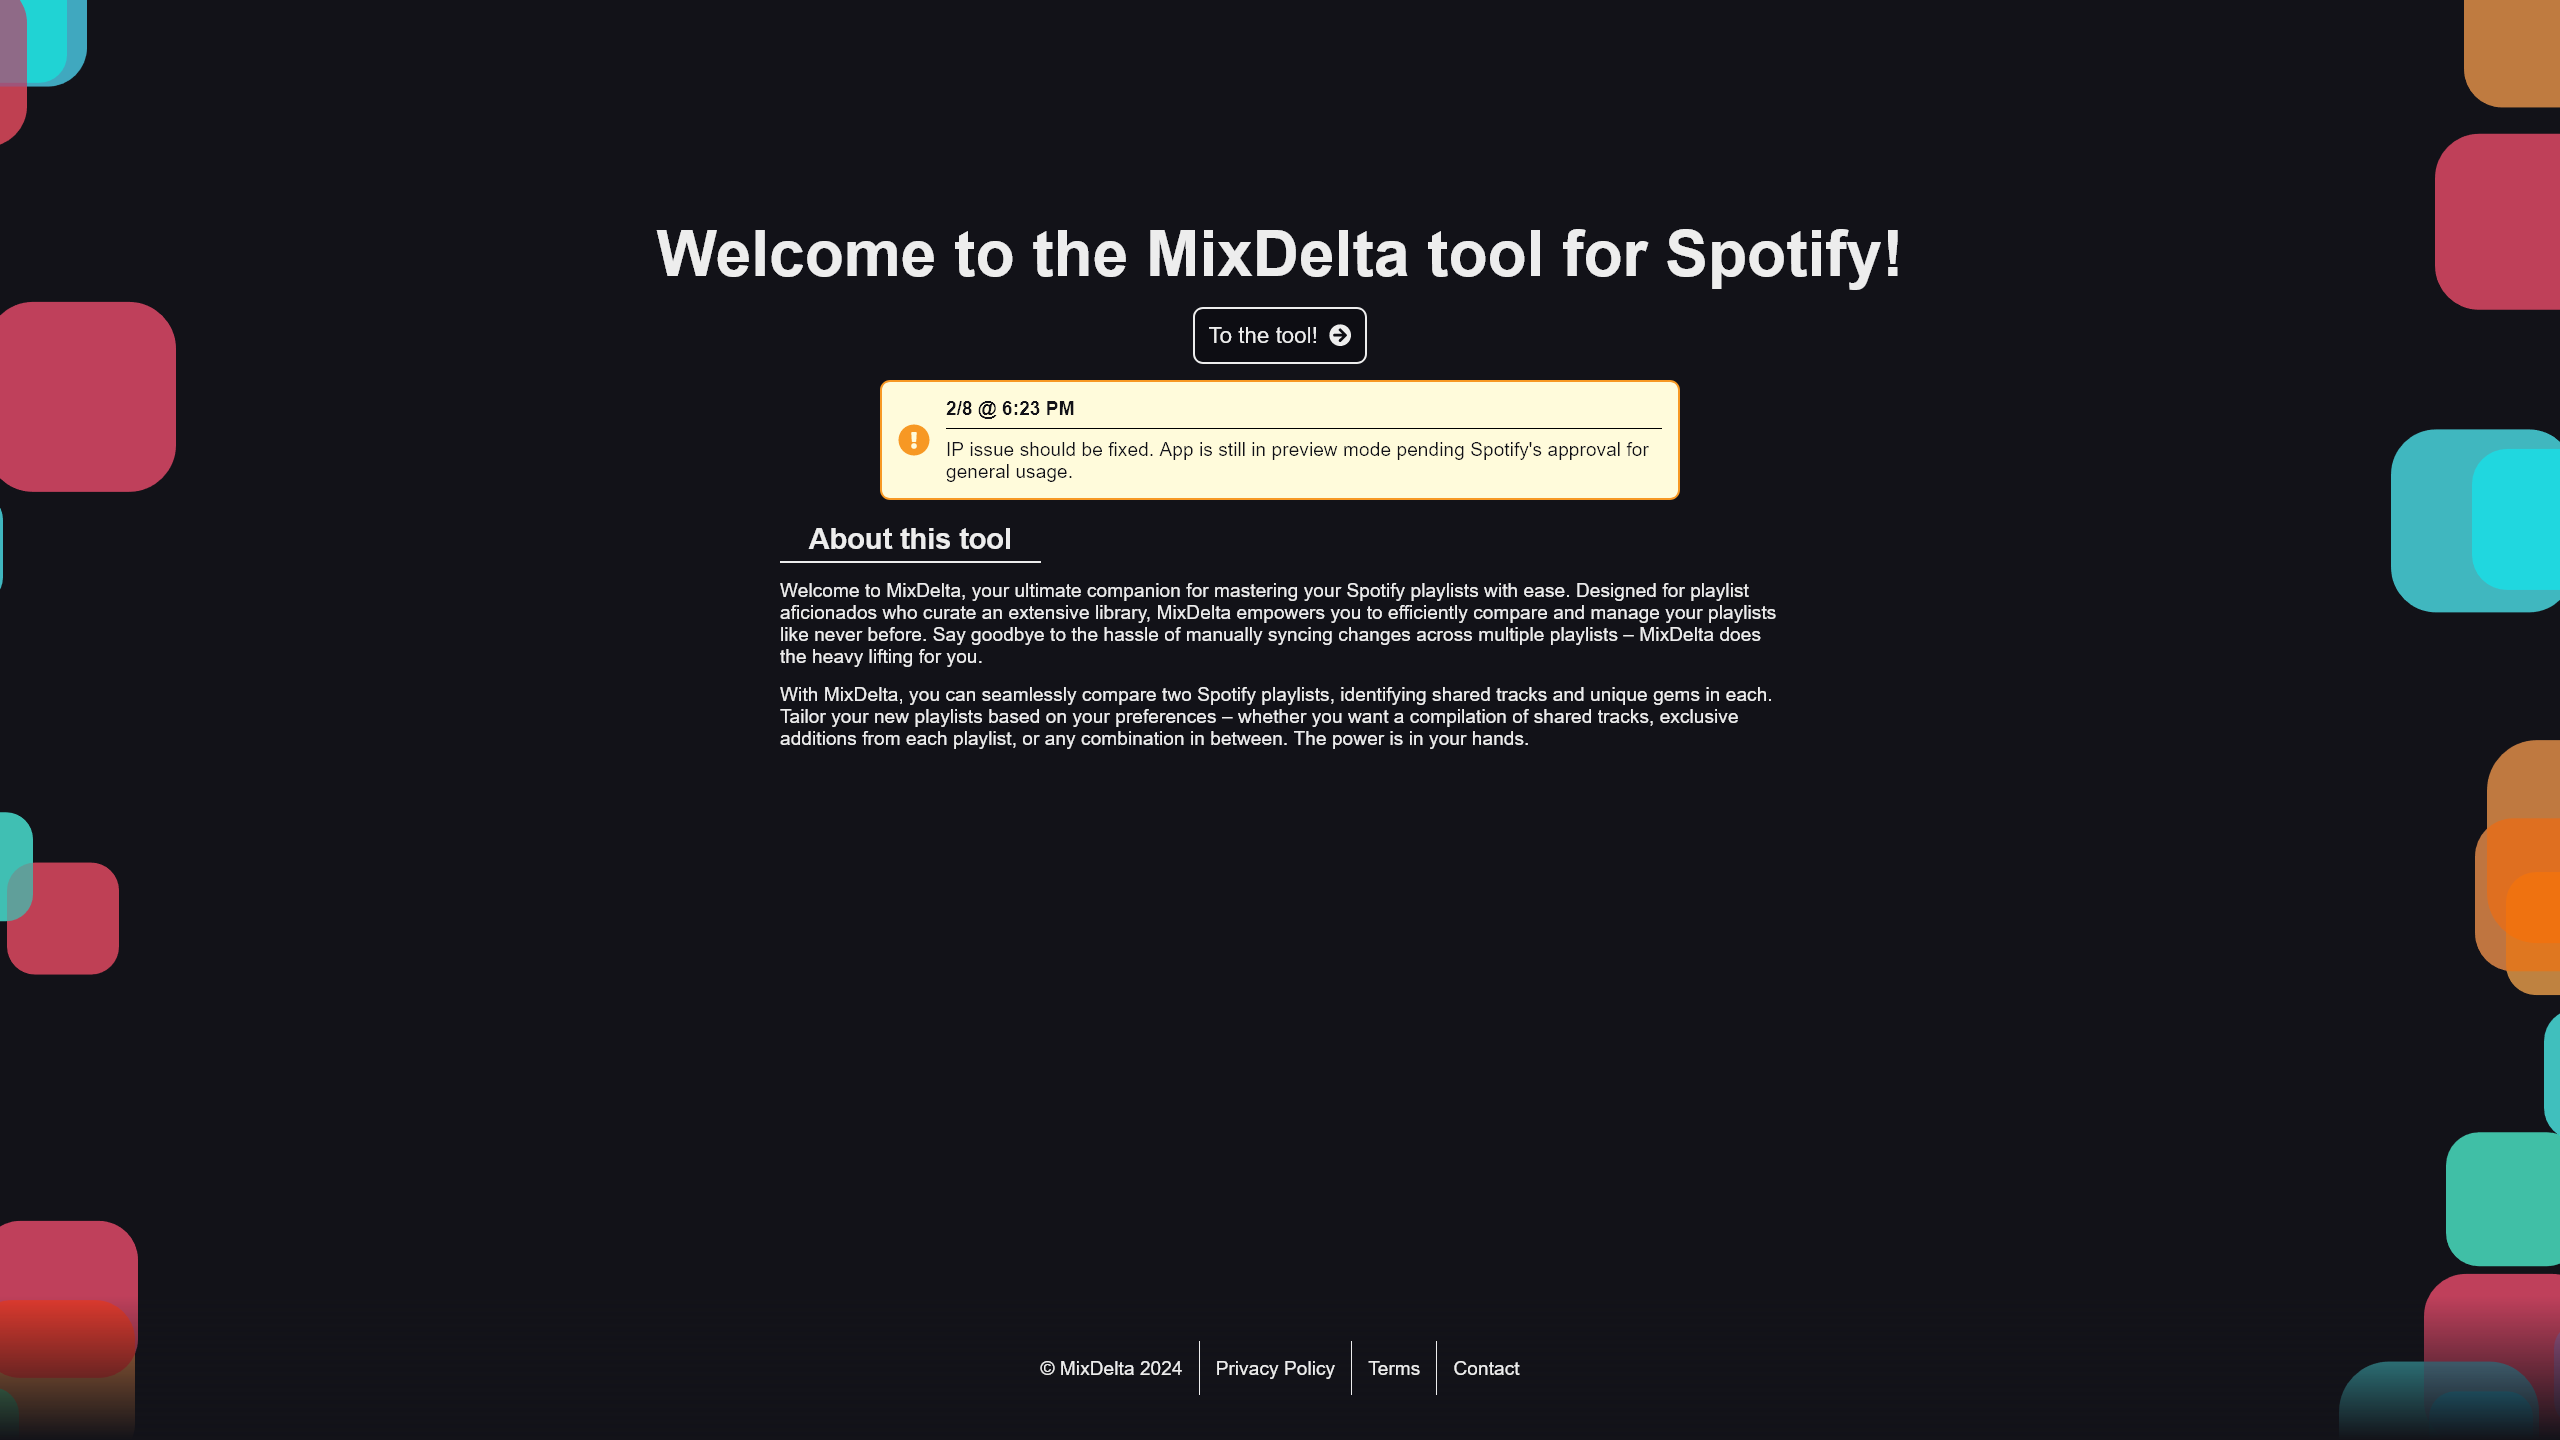
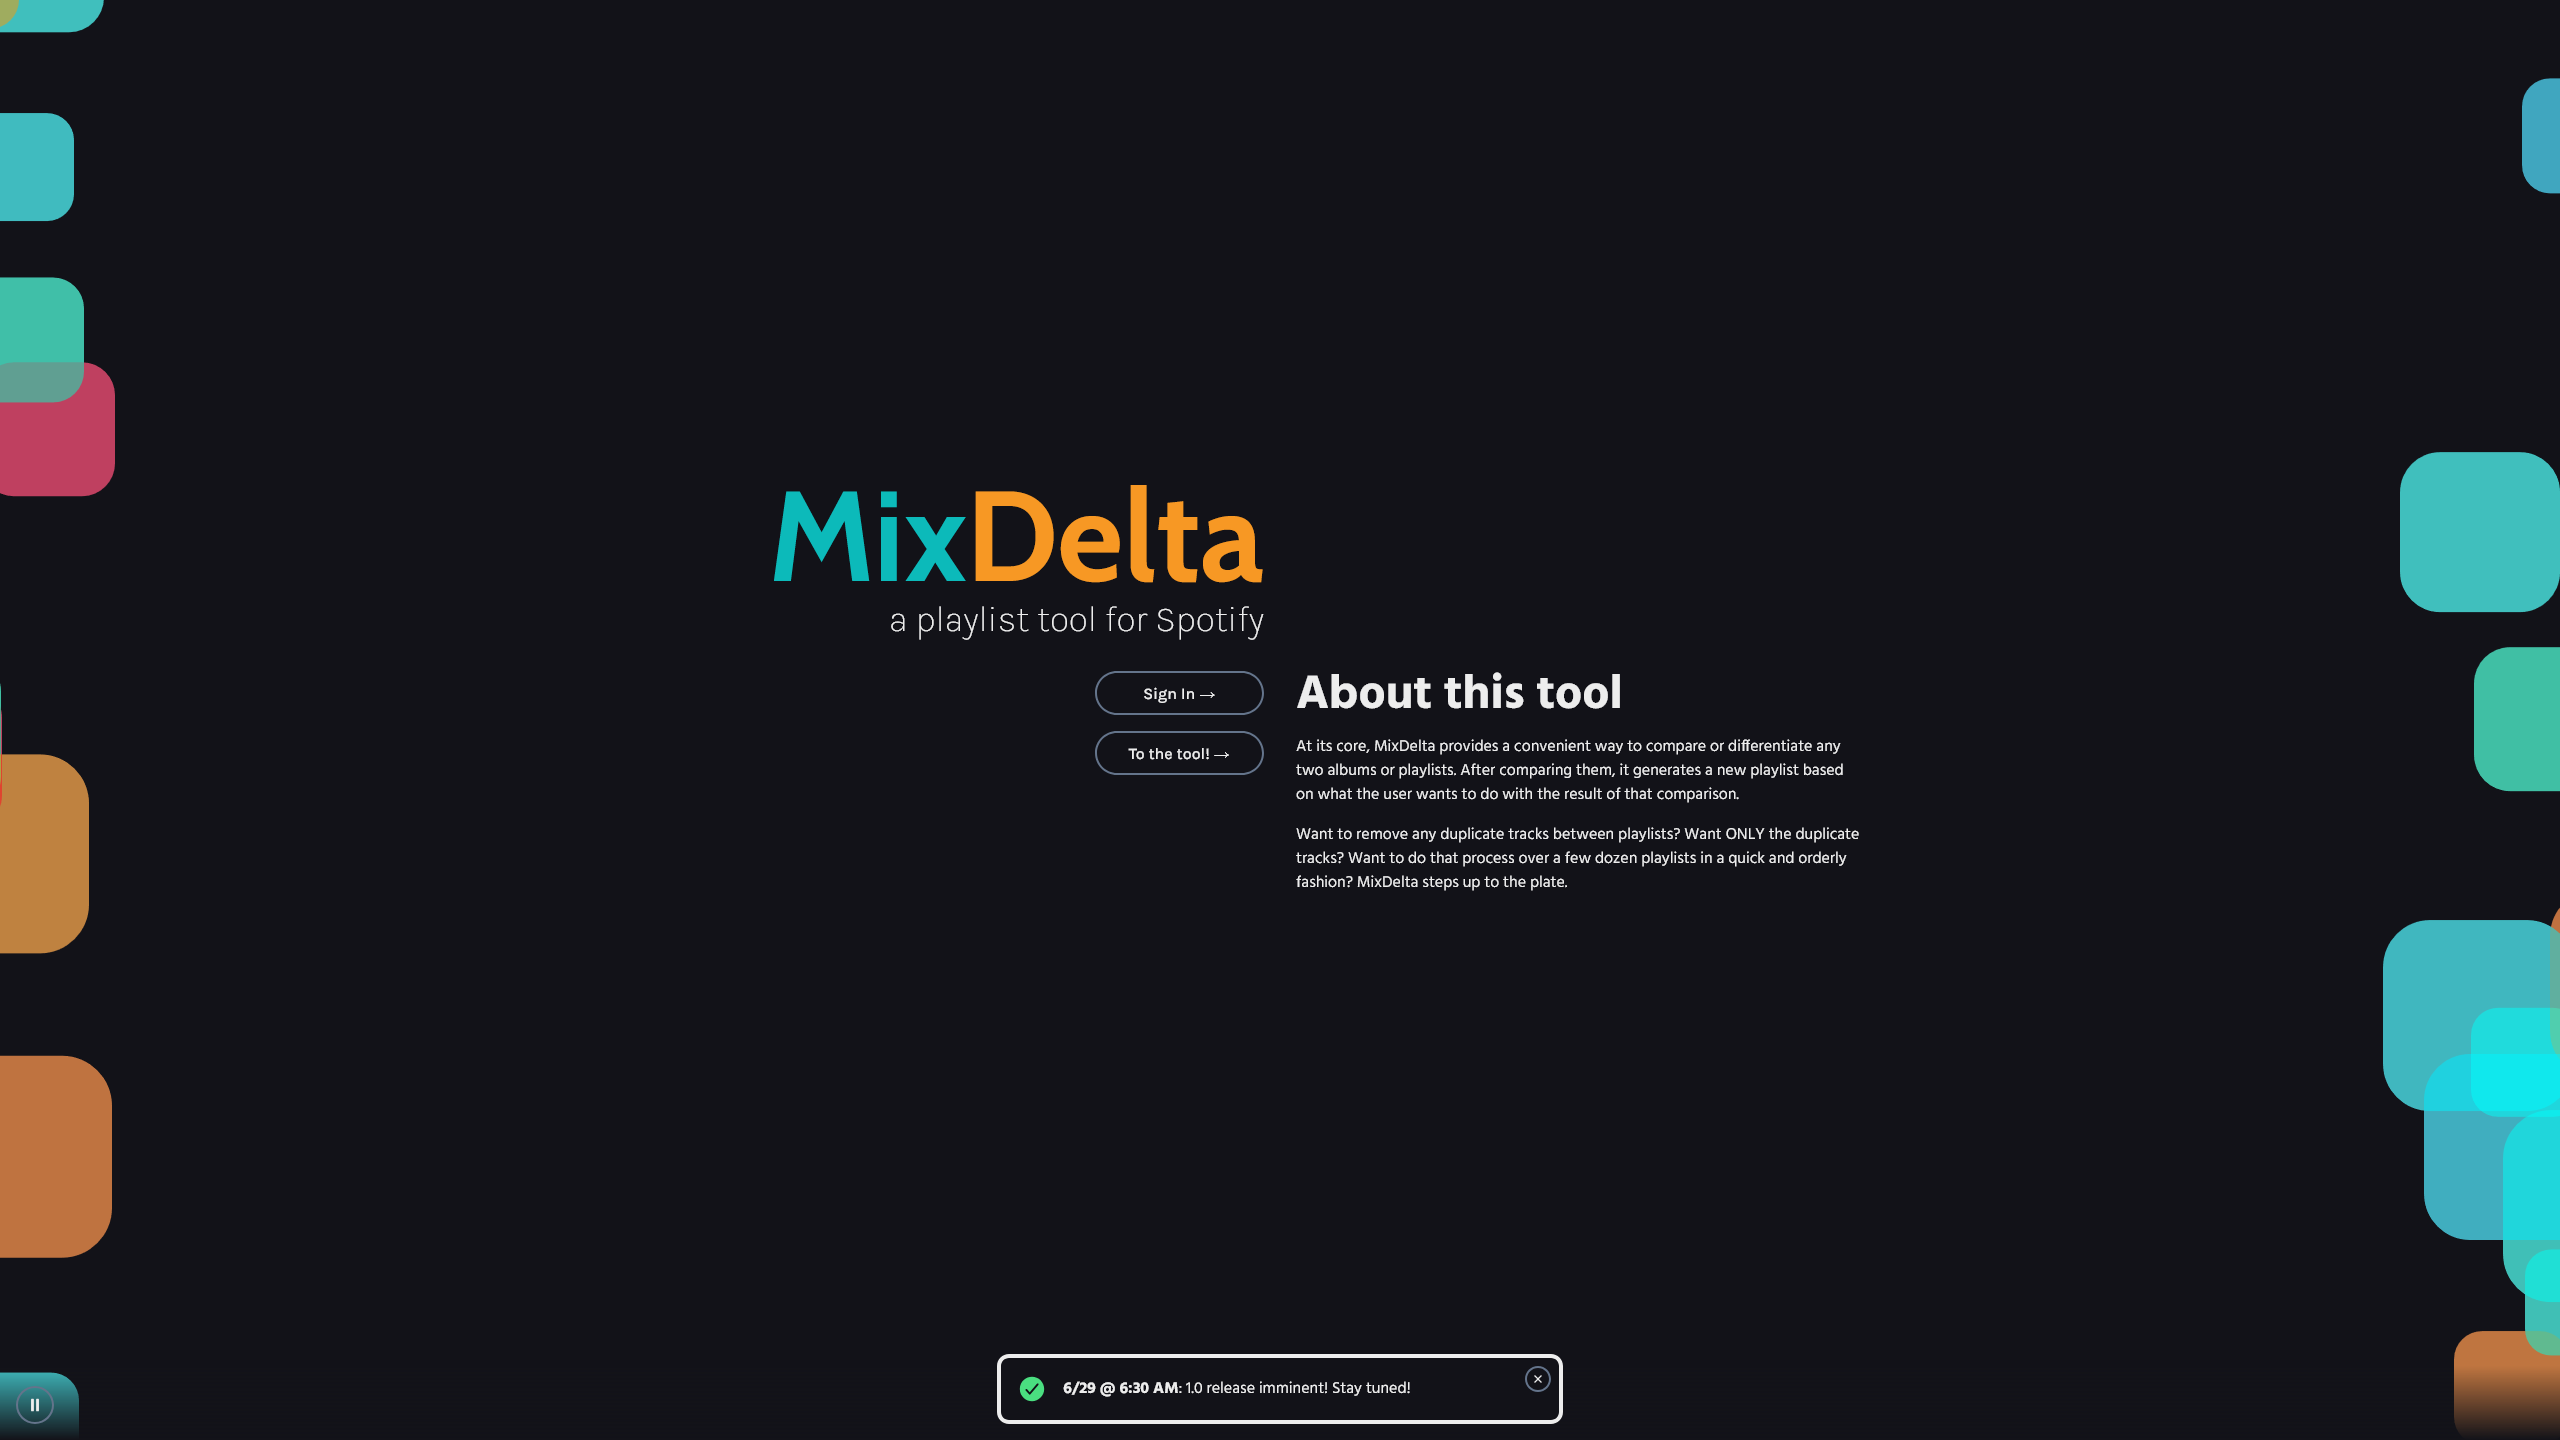
Update to 2.5.0
Update MixDelta page

diff --git a/src/app/(projects)/@interactive/featured/MixDelta/_components/assets/index.ts b/src/app/(projects)/@interactive/featured/MixDelta/_components/assets/index.ts
@@ -1,4 +1,5 @@
 import homepage from './homepage.png';
+import terms from './terms.png';
 import signin from './signin.png';
 import playlistadder from './playlistadder.png';
 import playlistdifferstage from './playlistdifferstage.png';
@@ -9,46 +10,52 @@ import playlistdifferpost from './playlistdifferpost.png';
 
 const homepageObj = {
 	image: homepage,
-	desc: 'MixDelta home page'
-};;
+	desc: 'MixDelta home page',
+};
+
+const termsObj = {
+	image: terms,
+	desc: 'MixDelta terms modal',
+};
 
 const signinObj = {
 	image: signin,
-	desc: 'MixDelta sign in page'
+	desc: 'MixDelta sign in page',
 };
 
 const playlistadderObj = {
 	image: playlistadder,
-	desc: 'The playlist adding dialogue'
+	desc: 'The playlist adding dialogue',
 };
 
 const playlistdifferstagerObj = {
 	image: playlistdifferstage,
-	desc: 'A stage in the playlist diffing flow'
+	desc: 'A stage in the playlist diffing flow',
 };
 
 const playlistdiffercustomObj = {
 	image: playlistdiffercustom,
-	desc: 'Customizing the details of the new playlist'
+	desc: 'Customizing the details of the new playlist',
 };
 
 const playlistdifferreviewObj = {
 	image: playlistdifferreview,
-	desc: 'Reviewing what the new playlist will contain'
+	desc: 'Reviewing what the new playlist will contain',
 };
 
 const playlistdifferpendingObj = {
 	image: playlistdifferpending,
-	desc: 'Waiting for the diff operation to copmlete'
+	desc: 'Waiting for the diff operation to copmlete',
 };
 
 const playlistdifferpostObj = {
 	image: playlistdifferpost,
-	desc: 'Reviewing the results of the diff operation'
+	desc: 'Reviewing the results of the diff operation',
 };
 
 export {
 	homepageObj,
+	termsObj,
 	signinObj,
 	playlistadderObj,
 	playlistdifferstagerObj,

diff --git a/README.md b/README.md
@@ -4,6 +4,10 @@ This is a Next.js App router endeavor!
 
 ## CHANGELOG
 
+### 2.5.0
+
+- Update MixDelta page (now [live](https://www.mixdelta.xyz))
+
 ### 2.4.0
 
 - Address accessibility issues with sr text vs. aria-label
